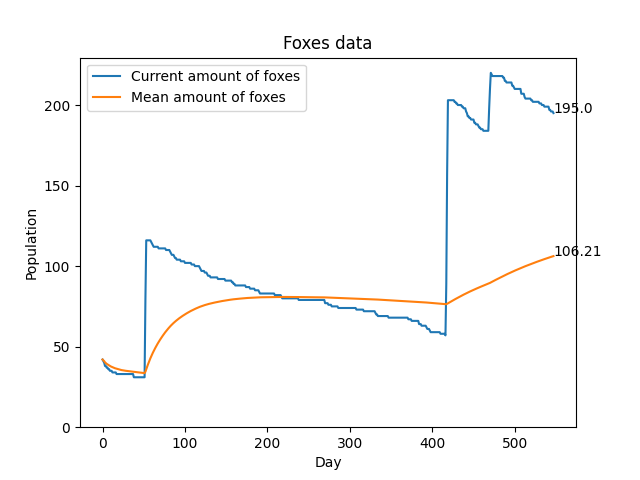
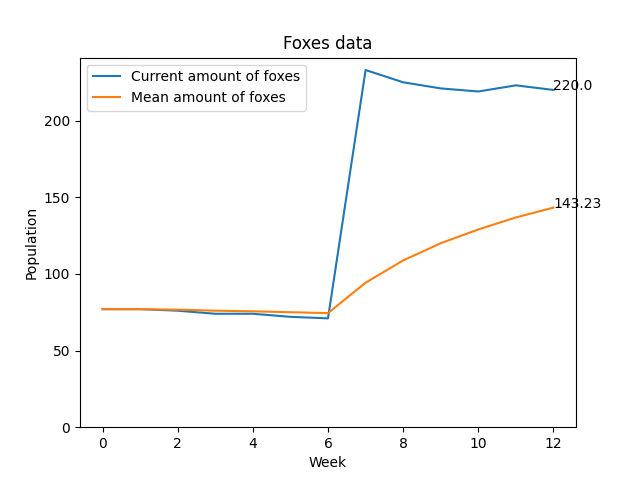
A lot of minor tweaks and fixes

diff --git a/main.py b/main.py
@@ -29,6 +29,7 @@ class PygameSimulationTest:
         self.pg_settings = get_default_pygame_settings()
         self.sim_settings.generic.grid_size = (self.pg_settings.GRID_WIDTH, self.pg_settings.GRID_HEIGHT)
 
+        self.rabbits_in_dens = {}
         self.initialize_grid()
 
         self.selected_tile_type = FieldType.FOREST
@@ -95,11 +96,17 @@ class PygameSimulationTest:
                 raise ValueError(f"Object grid size in file does not match simulation settings\n"
                                  f"Grid size in file: {loaded_objects.shape}\n"
                                  f"Expected grid size: {self.sim_settings.generic.grid_size}")
-
         else:
             print("Created new grid")
             self.grid = np.full(self.sim_settings.generic.grid_size, FieldType.GRASS, dtype=FieldType)
             self.objects = np.full(self.sim_settings.generic.grid_size, ObjectType.NOTHING, dtype=ObjectType)
+
+        yy, xx = self.objects.shape
+        for y in range(yy):
+            for x in range(xx):
+                if self.objects[y, x] == ObjectType.RABBIT_DEN:
+                    self.rabbits_in_dens[(y, x)] = 15
+        
 
     def create_window(self):
         window_size = (self.pg_settings.TILE_SIZE * self.sim_settings.generic.grid_size[0],
@@ -141,24 +148,22 @@ class PygameSimulationTest:
                     print(f'Min hunger: {np.min([fox.hunger for fox in foxes])}')
                     print(f'Average hunger: {np.mean([fox.hunger for fox in foxes])}')
 
- 
-                # print(len(self.fox_stats))
-                # if len(self.mean_scores) > 0:
-                    # mean = (np.cumsum(self.mean_scores) + len(foxes)) / len(self.fox_stats)
-                # else:
-                    # mean = len(foxes)
-                # self.mean_scores = np.append(self.mean_scores, [mean])
-
-                # print(self.fox_stats, self.mean_scores, mean)
 
                 if self.time_manager.date.hour == 1:
-                    self.fox_stats = np.append(self.fox_stats, [len(foxes)])
-                    self.mean_scores = np.append(self.mean_scores, [round(np.mean(self.fox_stats), 2)])
-                    if self.time_manager.date.day == 1:
+                    for rabbit in self.rabbits_in_dens.keys():
+                        self.rabbits_in_dens[rabbit] = 15
+
+                    if self.time_manager.date.weekday() == 1:
+                        self.fox_stats = np.append(self.fox_stats, [len(foxes)])
+                        self.mean_scores = np.append(self.mean_scores, [round(np.mean(self.fox_stats), 2)])
+                    if self.time_manager.date.day == 1 and len(self.fox_stats) > 0:
                         plot(self.fox_stats, self.mean_scores)
 
+                if self.time_manager.date.year == 2030:
+                    self.done = True
 
-                self.move_foxes(foxes, self.time_manager.date, self.objects, self.food_matrix)
+                self.move_foxes(foxes, self.time_manager.date, self.objects, self.food_matrix, self.rabbits_in_dens)
+                # print(self.time_manager.date.hour, self.rabbits_in_dens)
 
                 if self.step_by_step:
                     self.wait_for_space()
@@ -277,9 +282,9 @@ class PygameSimulationTest:
                 self.screen.blit(self.night_screen, (0, 0))
                 self.night_screen.set_alpha(96)
 
-    def move_foxes(self, foxes, date, objects, food_matrix):
-        for fox in foxes:
-            fox.move(date, objects, food_matrix)
+    def move_foxes(self, foxes, date, objects, food_matrix, rabbits_in_dens):
+        for fox in reversed(foxes):
+            fox.move(date, objects, food_matrix, rabbits_in_dens)
 
     def wait_for_space(self):
         stop_flag = 1
@@ -312,7 +317,7 @@ class PygameSimulationTest:
                     neighborhood_x.start <= fox.current_position.x < neighborhood_x.stop and
                     neighborhood_y.start <= fox.current_position.y < neighborhood_y.stop
                 )
-                self.food_matrix[x, y] += max(0, np.random.normal(0, 0.25))  # adjustable
+                self.food_matrix[x, y] += max(0, np.random.normal(0, 0.05))  # adjustable
 
 
 sim = PygameSimulationTest()

diff --git a/agents/fox.py b/agents/fox.py
@@ -108,7 +108,7 @@ class Fox:
                 year += 1
                 
 
-    def move(self, date, objects, food_matrix):
+    def move(self, date, objects, food_matrix, rabbits_in_dens):
         # Aktywność przy padlinie jest skoncentrowana głównie w godzinach 0:00 -
         # 3:00 i 18:00 - 22:00, podobnie jak czas spędzany przy punktach wodnych, który przeważnie występuje w
         # godzinach 03:00 - 06:00 i 20:00 - 23:00. W przypadku nor króliczych, lisy najczęściej obserwuje się w
@@ -118,7 +118,7 @@ class Fox:
         # 19:00 - 22:00 - poluj na króliki
         
         if 19 <= date.hour < 22:
-            self.hunt_rabbits(objects)
+            self.hunt_rabbits(objects, rabbits_in_dens)
         if 0 <= date.hour < 3 or 18 <= date.hour < 22:
             self.search_for_food(food_matrix)
 
@@ -190,17 +190,19 @@ class Fox:
     def increase_hunger(self):
         self.hunger += self.hunger_increase_per_hour
 
-    def hunt_rabbits(self, objects):
+    def hunt_rabbits(self, objects, rabbits_in_dens):
         grid_size = PygameSettings.GRID_WIDTH, PygameSettings.GRID_HEIGHT
         # function checks if there is a rabbit den in 5x5 surrounding of fox - if there is, fox feeds on it
         for x in range(int(max(0, self.current_position.x - 2)), int(min(grid_size[0], self.current_position.x + 3))):
             for y in range(int(max(0, self.current_position.y - 2)), int(min(grid_size[1], self.current_position.y + 3))):
-                if objects[x, y] is ObjectType.RABBIT_DEN:
+                if objects[x, y] is ObjectType.RABBIT_DEN and (x, y) in rabbits_in_dens.keys() and rabbits_in_dens[(x, y)] > 0:
                     chance = random.random()
-                    if chance < 0.6 and self.population_manager.grid[x, y] == FieldType.GRASS:
+                    if chance < 0.55 and self.population_manager.grid[x, y] == FieldType.GRASS:
                         self.feed(1)
-                    elif chance < 0.8 and self.population_manager.grid[x, y] == FieldType.FOREST:
+                        rabbits_in_dens[(x, y)] -= 1
+                    elif chance < 0.75 and self.population_manager.grid[x, y] == FieldType.FOREST:
                         self.feed(1)
+                        rabbits_in_dens[(x, y)] -= 1
                     return
 
     def search_for_food(self, food_matrix):

diff --git a/framework/population_manager.py b/framework/population_manager.py
@@ -70,7 +70,7 @@ class PopulationManager:
             if fox in group.foxes:
                 for i in range(int(number_of_cubs)):
                     child = Fox(self.simulation_settings.fox,
-                                random.choices([Sex.MALE, Sex.FEMALE], [46, 54], k=1)[0], fox.den_position, self, date)
+                                random.choices([Sex.MALE, Sex.FEMALE], [50, 50], k=1)[0], fox.den_position, self, date)
                     child.age = 0
                     group.foxes.append(child)
                     group.size += 1

diff --git a/settings/simulation_settings.py b/settings/simulation_settings.py
@@ -145,6 +145,7 @@ class ShootingSettings:
     def default_shooting_excursions():
         return MinMaxRandomValue(10, 80, DistributionType.NORMAL, {"avg": 30, "stddev": 10})
 
+
     culling_rate: MinMaxRandomValue = field(default_factory=default_culling_rate)
     shooting_rate: MinMaxRandomValue = field(default_factory=default_shooting_rate)
     shooting_excursions: MinMaxRandomValue = field(default_factory=default_shooting_excursions)

diff --git a/framework/plot.py b/framework/plot.py
@@ -10,7 +10,7 @@ def plot(foxes, mean_foxes):
     display.display(plt.gcf())
     plt.clf()
     plt.title('Foxes data')
-    plt.xlabel('Day')
+    plt.xlabel('Week')
     plt.ylabel('Population')
     plt.plot(foxes, label='Current amount of foxes')
     plt.plot(mean_foxes, label='Mean amount of foxes')
